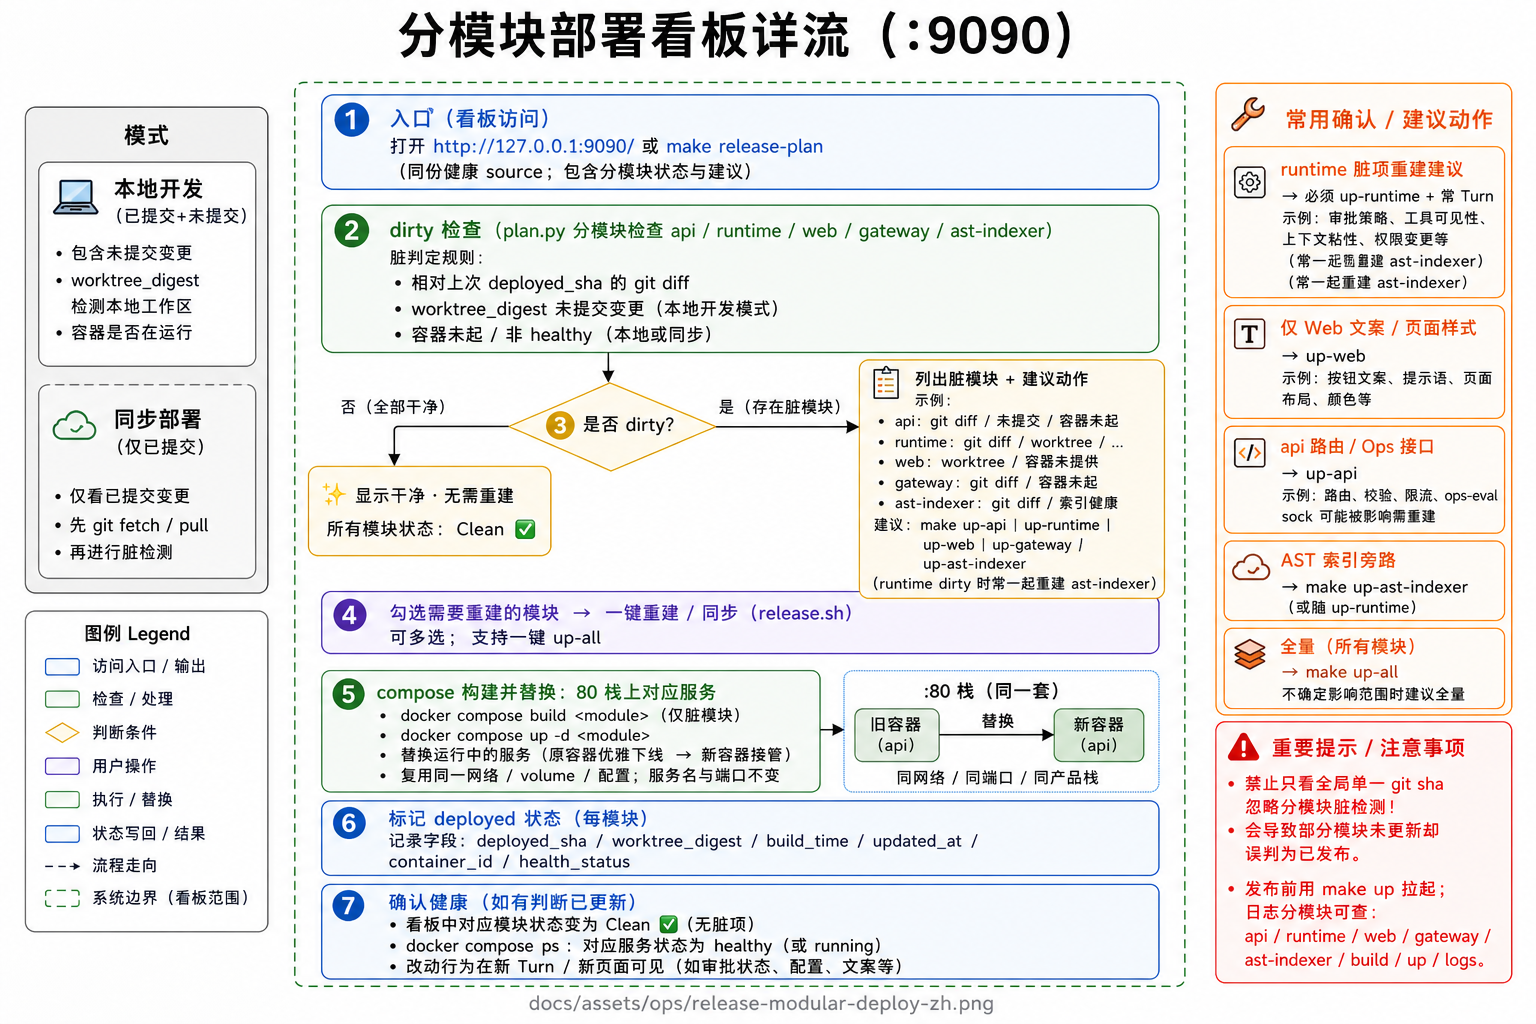
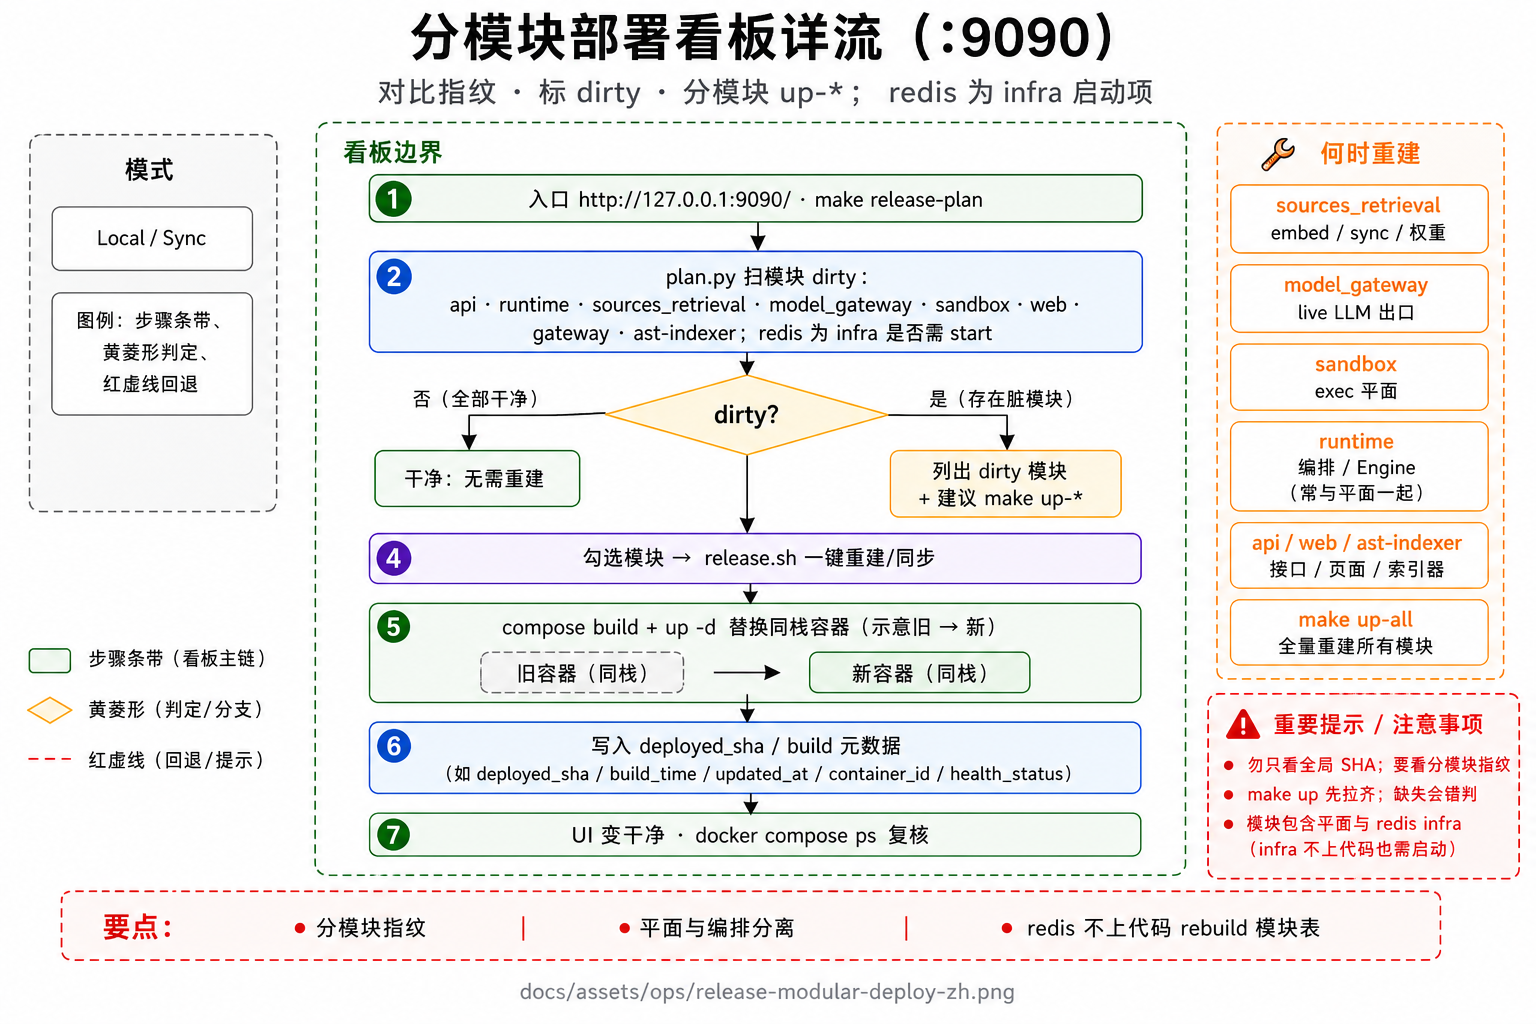
Document ADR-020 planes in the tour and redraw the stale flow posters.
Tour topology, backend, index, sandbox, and contracts now match remote embed ownership and HTTP hot paths.

Changed region(s): [[0.0, 0.0, 1.0, 1.0]]

diff --git a/docs/tour/pages/backend.html b/docs/tour/pages/backend.html
@@ -189,8 +189,8 @@ t3  订阅（SSE 面，长连接）——通常与 t1 的 202 之后立刻发起
       大量挂起的 SSE 先挤 api 的 fd / 协程 / 1g。
 
 t4  模型增量（高频）
-    Provider ──HTTP 流──► runtime ModelGateway
-         │
+    Provider ──HTTP NDJSON──► model-gateway ──► runtime ModelGateway（remote）
+         │  stub/recorded 仍在编排本地，不经 gateway
          ▼
     BufferedEventWriter  首 token 立即 INSERT；其后 ≤40ms 多行 INSERT
          │  payload.delta 单条 ≤8192 字符（契约）
@@ -217,7 +217,8 @@ t5  控制命令（与 SSE 并行的短 POST）
     api      鉴权 + _require_turn_access
              INSERT run_commands + NOTIFY run_commands_channel
     runtime  仅 runner_id 匹配且持有 lease 的副本消费
-             续跑同一 run_id（仍占 inflight）</pre>
+             续跑同一 run_id（仍占 inflight）
+<span class="pt">◆ 要点  live 上游经 model-gateway；query embed 经 sources-retrieval HTTP；首 token / query embed 禁止上 Redis 总线。</span></pre>
 
           <h3>Caddy</h3>
           <pre class="seq">Caddy  L7 reverse proxy     SSE 对它 = 很久不结束的 GET /api/…
@@ -256,12 +257,15 @@ X-Internal-Token 只用于 api↔runtime 的 push 回退 / admin 代理。
 │            禁止 --workers=N：每个 worker 复制一份互不相认的               │
 │            inflight 计数与 LISTEN 套接字，闸会失效。                      │
 │            扩容 = 加容器副本，claim 仍走数据库 CAS。                      │
-│  cgroup    runtime 4g (GPU→12g)  api 1g     postgres 1g  ast 768m        │
+│  cgroup    runtime 4g（编排）  sources-retrieval 12g(GPU)/4g(CPU)        │
+│            model-gateway 512m  sandbox 1g  api 1g  postgres 1g  ast 768m │
 │  DB 池     api hot5 + bypass5               runtime hot5 + bypass5       │
 │            + LISTEN 专用连接 2～3 根/进程   PG 默认 max_connections≈100   │
 │  实际并发  min(16, 热池排队, RSS, 供应商限流) 推荐 2～4 路满窗 Turn       │
+│  embed     权重只在 sources-retrieval；编排 EMBEDDING_BACKEND=remote     │
 └──────────────────────────────────────────────────────────────────────────┘
 <span class="pt">◆ 要点  先撞上的是热池 5，不是 inflight 16。--workers 会复制互不相认的闸。</span>
+<span class="pt">◆ 要点  HA 扩 runtime 不复制 bge-m3；GPU overlay 挂在 sources-retrieval。</span>
 
 连接分类
 ────────
@@ -271,11 +275,14 @@ X-Internal-Token 只用于 api↔runtime 的 push 回退 / admin 代理。
 长连接  ① Browser↔Caddy↔api   SSE (chunked GET，Turn 生命周期)
         ② api↔PG              LISTEN turn_events_channel（进程级，1 根）
         ③ runtime↔PG          LISTEN dispatch + LISTEN run_commands
-        ④ runtime↔Provider    模型 HTTP 流（step 级，可 abort）
-        ⑤ runtime 心跳        10s 续 lease（短 SQL，逻辑上是长租约）
+        ④ runtime↔model-gateway↔Provider   模型 HTTP NDJSON（step 级，可 abort）
+        ⑤ runtime↔sources-retrieval        query/index embed（HTTP；不上总线）
+        ⑥ runtime↔sandbox                 exec（HTTP；可回退本进程）
+        ⑦ runtime 心跳        10s 续 lease（短 SQL，逻辑上是长租约）
 
         ① 与 ④ 数量随「正在看 / 正在推理」涨
         ②③ 是固定的控制面插座，与用户数无关
+        ⑤⑥ 是执行平面热路径；异步索引走 Redis Streams，不走这里
 
 叠回时序
 ────────
@@ -376,11 +383,11 @@ RAG     psycopg 自建连，第三条绕开 hot 的路径</pre>
 
   内存数量级（Python 对象图；仓库无 per-Turn RSS 探针，只作规划）
     满 usable≈98k tok → 典型 5～30 MiB / Turn（对象头 + 多份拷贝）
-    16 inflight × 20 MiB ≈ 0.3 GiB   仅消息图
-    + sentence-transformers 常驻
+    16 inflight × 20 MiB ≈ 0.3 GiB   仅消息图（编排 runtime）
+    + sentence-transformers 常驻于 sources-retrieval（不在编排进程）
         gte-small@384     ~0.1 GiB
-        bge-m3@1024       ~1.5–2.5 GiB（故 GPU overlay 把 runtime 抬到 12g）
-    ⇒ 4g cgroup 下 16 路满窗会先 OOM。
+        bge-m3@1024       ~1.5–2.5 GiB（故 GPU overlay 把 sources-retrieval 抬到 12g）
+    ⇒ 编排 4g 下 16 路满窗仍可能先撞热池/供应商限流；权重 OOM 面在 retrieval。
 <span class="pt">◆ 要点  128k 是这一 Turn 的组窗，不是 Session 常驻。软件帽 16 ≠ 物理可跑 16。</span></pre>
 
           <h3>规划上界</h3>
@@ -391,17 +398,18 @@ RAG     psycopg 自建连，第三条绕开 hot 的路径</pre>
   维度            默认单副本     备注
   软件执行中      16             RUNTIME_MAX_INFLIGHT_TURNS
   DB 热连接       runtime 5 + api 5    先于 16 饱和
-  满窗推理        2～4           4g + 组窗拷贝 + embed
+  满窗推理        2～4           编排 4g + 组窗拷贝；embed 在 retrieval
   轻量对话        6～8           窗远小于 98k
   SSE 挂看        数十           api 1g / fd；≠ 能推理 16
   未领取排队      32 / 用户 2    再高 429
-  HA 双 runtime   软件 32        近双份 4g；PG 连接再 +12
+  HA 双 runtime   软件 32        近双份 4g；不复制 bge-m3；PG 连接再 +12
 
 扩容
 ────
   make up-ha → runtime-a / runtime-b，共用同一 Postgres 与 agent_data
   claim 走数据库 CAS，不配置 RUNTIME_URL_MAP
   单进程 uvicorn，勿设 --workers（会复制互不相认的 inflight / LISTEN）
+  GPU / bge-m3 挂在 sources-retrieval（及 bench），不随 runtime 副本翻倍
   dispatch_wait_seconds / dispatch_queue_depth 顶满再加 runtime
   event_pipeline_lag_seconds / TTFB 变差先查热池与事件批窗（~40ms）
 
@@ -414,8 +422,8 @@ RAG     psycopg 自建连，第三条绕开 hot 的路径</pre>
   加密停在边界：:80 明文，:443 tls internal
   容器内 PG/HTTP 默认无 sslmode=require
   Cookie = HMAC 签名（完整性，payload 非加密）；供应商 Key 静态 Fernet</pre>
-          <p class="figure-lead">下图中间箭头链即 POST → 准入 → 落库 NOTIFY → claim/lease → 事件 → SSE。左右为 Caddy / 双池 / 禁止项，不是第二套主链。菱形为未领取队列与 inflight。数字与 ASCII 一致：lease 180s、热池 5×5s、202 ≠ <code>turn.accepted</code>。</p>
-          <div class="src"><code>deploy/caddy/Caddyfile</code> · <code>admission.py</code> · <code>turn_dispatch.py</code> · <code>db/pool.py</code></div>
+          <p class="figure-lead">下图中间箭头链即 POST → 准入 → 落库 NOTIFY → claim/lease → Engine（经 model-gateway / sources-retrieval / sandbox HTTP）→ 事件 → SSE。左右为 Caddy / 双池 / 禁止项，不是第二套主链。菱形为未领取队列与 inflight。数字与 ASCII 一致：lease 180s、热池 5×5s、202 ≠ <code>turn.accepted</code>。</p>
+          <div class="src"><code>deploy/caddy/Caddyfile</code> · <code>deploy/compose/planes.yml</code> · <code>admission.py</code> · <code>turn_dispatch.py</code> · <code>db/pool.py</code></div>
         </div>
         <figure class="figure">
           <div class="diagram-body diagram-svg">

diff --git a/docs/tour/pages/sandbox.html b/docs/tour/pages/sandbox.html
@@ -1,13 +1,16 @@
 <section class="page" data-id="sandbox" data-group="场景与工具" data-title="exec 沙箱">
         <div class="card">
           <h2>exec 沙箱与评测解题改道</h2>
-          <p class="lede">审批门通过之后，仍须决定进程可触达的范围。威胁模型是保护<strong>宿主机与 agent 服务</strong>：子进程文件系统只对当前 Work 根 RW。日常出站网络默认可用（已审批的 <code>curl https://…</code> 不应被沙箱误杀）；产品层「禁 curl」是另一条规则，不要焊进内核隔离。</p>
+          <p class="lede">审批门通过之后，仍须决定进程可触达的范围。威胁模型是保护<strong>宿主机与 agent 服务</strong>：子进程文件系统只对当前 Work 根 RW。默认经 <code>SANDBOX_PLANE_URL</code> 调 sandbox 平面 <code>POST /internal/sandbox/exec</code>（HTTP 热路径，不上 Redis 总线）；平面内再选 Landlock / bwrap / off。日常出站网络默认可用（已审批的 <code>curl https://…</code> 不应被沙箱误杀）；产品层「禁 curl」是另一条规则，不要焊进内核隔离。</p>
           <ul class="seq-legend">
             <li><span class="pt">◆ 要点</span> 设计取舍：漏了会把工作区绿当官方分、或缺 bwrap 时把「断网」降级成宿主机外连</li>
           </ul>
 
-          <h3>日常沙箱（进程内首次探测后 sticky）</h3>
-          <pre class="seq">选择顺序  Landlock → bwrap → off
+          <h3>日常沙箱（平面内首次探测后 sticky）</h3>
+          <pre class="seq">编排 runtime ──HTTP──► sandbox 平面（SANDBOX_PLANE_URL）
+  未配置平面 URL 时回退进程内 sandbox（兼容 monolith / 测试）
+
+平面内选择顺序  Landlock → bwrap → off
   Landlock  Linux ≥5.13，ABI≥1；restrict_self 不可逆，探针在子进程做
             可写 jail = 当前 work_root（与 bwrap RW 面一致）；私有 tmpdir
             <strong>撤不掉 egress</strong>——只锁 FS
@@ -15,7 +18,8 @@
   off       裸 shell；argv 仍先过路径软 jail（不得越出 Work 根）
   TOOL_SANDBOX=off|landlock|bwrap  破窗覆盖；off 每次调用都生效，自动探测结果 pin 在进程生命周期
   结果 dict 带 sandbox 后端标识，便于 Ops 判断「这步到底关在哪一层」
-<span class="pt">◆ 要点  Landlock 单独不能满足评测断网。deny_network 时必须 bwrap --unshare-net；没有 bwrap 就硬失败，禁止降级到 off。</span></pre>
+<span class="pt">◆ 要点  Landlock 单独不能满足评测断网。deny_network 时必须 bwrap --unshare-net；没有 bwrap 就硬失败，禁止降级到 off。</span>
+<span class="pt">◆ 要点  热路径是 HTTP；Redis Streams 只承载异步索引等，不承载 exec。</span></pre>
 
           <h3>菱形：是否官方编码评测题</h3>
           <pre class="seq">条件：Turn 带 ops_eval 标记 且 工作区存在实例标记文件
@@ -32,7 +36,7 @@
       仍不得越出当前 Work 根
       与审批门正交：未批准的 run_command 根本不会进 sandbox</pre>
           <p class="figure-lead">下图菱形「是否评测题」对应主链第 2 步；否分支才是日常沙箱。</p>
-          <div class="src"><code>tools/core/sandbox.py</code> · <code>tools/core/landlock_fs.py</code> · <code>structural/test_run_redirect.py</code> · <code>tools/core/swe_solve_env.py</code></div>
+          <div class="src"><code>services/sandbox</code> · <code>tools/core/remote_sandbox.py</code> · <code>tools/core/sandbox.py</code> · <code>tools/core/landlock_fs.py</code> · <code>structural/test_run_redirect.py</code></div>
         </div>
         <figure class="figure">
           <div class="diagram-body diagram-svg">

diff --git a/docs/tour/pages/index.html b/docs/tour/pages/index.html
@@ -1,7 +1,7 @@
 <section class="page" data-id="index" data-group="RAG / 写作" data-title="索引面">
         <div class="card">
           <h2>索引面：Turn 外建库</h2>
-          <p class="lede">目录文件是真相；向量库是投影。建库可慢：启动延迟同步、目录变更、上传、工作台「同步资料库」、内部同步命令、写作 <code>post_turn_jobs: sources.index_sync</code>。提问热路径禁止当场建库或整库重嵌（R1/R3）。无资料目录则 <code>retrieval=none</code>，不当成空库去 sync。private 禁止空 work_id。</p>
+          <p class="lede">目录文件是真相；向量库是投影。建库可慢：<code>sources-retrieval</code> 启动延迟同步、目录变更、上传、工作台「同步资料库」、内部同步命令、写作 <code>post_turn_jobs: sources.index_sync</code>（经 Redis 总线异步）。编排 runtime 默认 <code>EMBEDDING_BACKEND=remote</code>，不在本进程常驻 ST。提问热路径禁止当场建库或整库重嵌（R1/R3）。无资料目录则 <code>retrieval=none</code>，不当成空库去 sync。private 禁止空 work_id。</p>
           <ul class="seq-legend">
             <li><span class="pt">◆ 要点</span> 设计取舍：漏了会在查询路径上 embed 整库、把进度条当成检索就绪、或让长 sync 饿死 query embed</li>
           </ul>
@@ -22,13 +22,14 @@ embed=False 只挂 embed_input，本文件不碰 GPU
 宽表过长拆成指针，全文仍在磁盘，用 read_file 再读</pre>
 
           <h3>embed 与写入</h3>
-          <pre class="seq">产品 CPU   gte-small@384（INDEX≈9）        ~0.1 GiB 常驻
-产品 GPU   bge-m3@1024、max_seq=512（INDEX 13）  ~1.5–2.5 GiB（runtime cgroup 抬到 12g）
+          <pre class="seq">产品 CPU   gte-small@384（INDEX≈9）        ~0.1 GiB 常驻于 sources-retrieval
+产品 GPU   bge-m3@1024、max_seq=512（INDEX 13）  ~1.5–2.5 GiB（GPU overlay 把 sources-retrieval 抬到 12g）
 CI/lite    Hash 词面哈希，不承担召回质量
 正文给人看，面包屑（path:/tags:）给模型；embedding_text_include_metadata 默认关
 短窗仍输出满维向量
+<span class="pt">◆ 要点  产品权重只在 sources-retrieval；编排 runtime / HA 副本不复制 ST。</span>
 
-同一 flush 写三表（BYPASS 池 / indexer 进程，不占 runtime 热池）
+同一 flush 写三表（sources-retrieval 进程；不占编排 runtime 热池）
   source_files
   source_chunks   text + embedding；bm25_extra 拷到切块供 FTS C 权
   source_docs     切块向量均值（centroid），不是再 embed 摘要
@@ -41,7 +42,7 @@ GIN 在 schema 初始化时建，不每次 flush 重建
 backend 默认 pgvector；retrieval_mode=hybrid
 <span class="pt">◆ 要点  HNSW 不是 Python 建图 API，是 pgvector 的 CREATE INDEX / 增量维护。query 路径上当场建库会打爆 R1。</span></pre>
           <p class="figure-lead">下图中主链：触发 → 切块 → embed → 写入索引；左右为旁路与禁止项。</p>
-          <div class="src"><code>retrieval/chunk_split.py</code> · <code>embedder.py</code> · <code>pgvector_store.py</code> · <code>sync_cli.py</code></div>
+          <div class="src"><code>services/sources-retrieval</code> · <code>retrieval/chunk_split.py</code> · <code>embedder.py</code> · <code>remote_embedder.py</code> · <code>sync_cli.py</code></div>
         </div>
                                         <figure class="figure">
           <div class="diagram-body diagram-svg">

diff --git a/docs/tour/pages/rag-deep-dive.html b/docs/tour/pages/rag-deep-dive.html
@@ -6,13 +6,13 @@
       >
         <div class="card">
           <h2>RAG 深描：主链 + 打开函数</h2>
-          <p class="lede">本页两层、同一套编号。上层 ASCII 与全书相同：闸、数字、误用模型。下层按编号打开函数（<code>code-py</code>），不是第二套主链。车道超时 / RRF / doc_boost 见上一页「hybrid 召回」。查询热路径不 <code>sync</code>、不建图。</p>
+          <p class="lede">本页两层、同一套编号。上层 ASCII 与全书相同：闸、数字、误用模型。下层按编号打开函数（<code>code-py</code>），不是第二套主链。索引面 sync/embed 跑在 <code>sources-retrieval</code>（唯一权重池）；Turn 内 query embed 经编排 remote HTTP。车道超时 / RRF / doc_boost 见上一页「hybrid 召回」。查询热路径不 <code>sync</code>、不建图。</p>
           <ul class="seq-legend">
             <li><span class="pt">◆ 要点</span> 设计取舍：漏了会在查询路径上 sync、把 HNSW 当成 Python 建图 API、或用 raw 分相加代替 RRF</li>
           </ul>
 
           <h3>主链（与图 1–15 同一编号）</h3>
-          <pre class="seq">Turn 外 · 索引面（目录文件是真相；向量库是投影）
+          <pre class="seq">Turn 外 · 索引面（目录文件是真相；向量库是投影；进程 = sources-retrieval）
   1  stamp / mtime 判定 dirty 或 force_reindex（可恢复 epoch）
   2  force 且确有 dirty → DROP 两张 HNSW；增量不 drop，图随 UPSERT 走
   3  每文件 chunk_source_text(embed=False)：450 tok / 64 overlap，只挂 embed_input
@@ -20,6 +20,7 @@
   6  同 flush：DELETE 旧切块 + UPSERT files/chunks/docs（centroid = 切块均值）
   7–8  GIN 随列维护；全部写完才 CREATE HNSW（m=16 / ef_construction=64）并写 stamp
   <span class="pt">◆ 要点  HNSW 是 pgvector CREATE INDEX，不是 Python 建图。进度条 ≠ 检索就绪。</span>
+  <span class="pt">◆ 要点  ST/hash 权重只在 sources-retrieval；编排 runtime 默认 remote，不常驻模型。</span>
 
 Turn 内 · 查询面（模型 tool_use 才进；禁止再 sync）
   9   search_sources(query, limit, path_prefix)；无 sources/ → retrieval=none

diff --git a/docs/tour/pages/contracts.html b/docs/tour/pages/contracts.html
@@ -39,14 +39,19 @@
   POST …/approve-tool-call|deny|cancel → run_commands，达持约副本</pre>
 
           <h3>组件地图</h3>
-          <pre class="seq">services/api          鉴权 · 准入 · 落库 · LISTEN · SSE · 投影
-services/runtime      claim · Engine · 工具 · 写事件（:8001 不公网）
+          <pre class="seq">services/api          鉴权 · 准入 · 落库 · LISTEN · SSE · 投影 · 总线 enqueue
+services/runtime      orchestrator：claim · Engine · 工具调度 · 写事件（:8001 不公网）
+services/sources-retrieval  唯一 embedding 池 · sync/watch · POST /internal/embed
+services/model-gateway      live LLM NDJSON · POST /internal/v1/complete
+services/sandbox            bwrap/landlock · POST /internal/sandbox/exec
+redis                 agent.jobs Streams（异步；首 token / query embed 禁止上总线）
 services/web          工作台；只消费 SSE 与 GET /view
 services/bench        官方评测 worker；隔离库
-services/release-console  发布台 :9090；对比指纹、标 dirty
+services/release-console  发布台 :9090；对比指纹、标 dirty（含平面模块）
 packages/contracts    机器源
 eval/                 golden / official / retrieval / swebench
-deploy/ · scripts/ · seed/ · workspace/</pre>
-          <div class="src"><code>packages/contracts/schemas/events/envelope.json</code> · <code>openapi/public.yaml</code></div>
+deploy/ · scripts/ · seed/ · workspace/
+ADR                   docs/adr/020-execution-plane-microservices.md · 020-job-bus.md</pre>
+          <div class="src"><code>packages/contracts/schemas/events/envelope.json</code> · <code>openapi/public.yaml</code> · <code>deploy/compose/planes.yml</code></div>
         </div>
       </section>

diff --git a/docs/tour/index.html b/docs/tour/index.html
@@ -1049,7 +1049,7 @@
       const blurbs = {
         cover: "边界、权威与读法",
         principles: "R1–R5 热路径验收",
-        topology: "Caddy · api · runtime",
+        topology: "Caddy · api · runtime · planes",
         backend: "pull 时序 · 三道闸 · 双池",
         domain: "Work / Session / Turn / Run",
         "request-path": "受理 → 领取 → 投影",

diff --git a/docs/adr/020-execution-plane-microservices.md b/docs/adr/020-execution-plane-microservices.md
@@ -1,0 +1,54 @@
+# ADR-020: Execution-plane microservices + job bus
+
+## Status
+
+Accepted (implementation in progress).
+
+## Context
+
+Runtime was a fat execution monolith: Turn orchestration, embedding weights,
+sources sync, model egress, and sandbox shared one process. That couples
+memory (gte-small / bge-m3 × replicas), failure domains, and scale axes.
+Control plane (API + PG CAS + NOTIFY) is already separate.
+
+## Decision
+
+Deploy the execution plane as microservices with a Redis Streams job bus:
+
+| Service | Owns | Does not own |
+|---------|------|----------------|
+| **api** | Admission, CAS, SSE, outbox → bus | Embed weights, sandbox CPU |
+| **runtime** (orchestrator) | Claim, Engine, tools schedule, writing | ST weights, startup sync, heavy sandbox |
+| **sources-retrieval** | Single embedding pool, sync/watch, query embed | Turns |
+| **model-gateway** | Upstream LLM stream, timeouts, egress | Tools / embed |
+| **sandbox** | bwrap/landlock command execution | Model / embed |
+| **ast-indexer** | AST jobs (existing) | — |
+
+**Sync path (rate red line):** orchestrator → HTTP → retrieval embed / model-gateway.
+Never put first-token or query-embed on the bus.
+
+**Async path:** Redis Streams (`agent.jobs`) for `sources.index_sync`, sandbox
+jobs, and turn wake hints. PostgreSQL remains business truth (runs, events, CAS).
+See [020-job-bus.md](./020-job-bus.md).
+
+**Memory:** embedding weights load only in `sources-retrieval` (one pool).
+Orchestrator uses `EMBEDDING_BACKEND=remote`.
+
+**Companion surfaces (required):**
+- Compose: `deploy/compose/planes.yml` (default via Makefile `COMPOSE`)
+- Release console / `paths.env` / `plan.py`: modules `sources_retrieval`,
+  `model_gateway`, `sandbox`; embedding actions → `up-sources-retrieval`
+- Ops overview expected containers + plane status; eval recreate includes
+  `sources-retrieval` + `planes.yml`
+- Service images: `services/{sources-retrieval,model-gateway,sandbox}/Dockerfile`
+  (retrieval ← `runtime:default` ST bake; gateway/sandbox ← `runtime:slim` hash Dockerfile)
+- Live cutover: orchestrator → remote embed / model-gateway NDJSON /
+  sandbox HTTP exec (stub/recorded/monolith stay local)
+
+## Consequences
+
+- Compose topology and `SERVICE_ROLE` / URLs are the source of truth for scale-out.
+- GPU overlay attaches to `sources-retrieval` (and bench), not orchestrator replicas.
+- HA scales orchestrator without copying bge-m3.
+- Physical package extract (separate Python projects) can follow; identity +
+  deploy modules are already split.

diff --git a/docs/adr/020-job-bus.md b/docs/adr/020-job-bus.md
@@ -1,0 +1,35 @@
+# Platform job bus (ADR-020)
+
+## Transport
+
+- **Redis Streams** stream name: `agent.jobs`
+- Compose service: `redis` → `agent-redis`
+- Env: `REDIS_URL=redis://redis:6379/0`
+
+## Message fields
+
+| Field | Meaning |
+|-------|---------|
+| `id` | Job UUID |
+| `type` | e.g. `sources.index_sync` |
+| `payload` | JSON object string |
+| `ts` | Unix epoch seconds |
+
+## Consumer groups
+
+| Group | Service | Types |
+|-------|---------|--------|
+| `sources-retrieval` | `agent-sources-retrieval` | `sources.index_sync` |
+| `sandbox` | `agent-sandbox` | (reserved) |
+| `runtime` | orchestrator | (reserved; turn wake) |
+
+## Rules
+
+- **Sync hot path** (first token, query embed): HTTP RPC only — never this bus.
+- **PG** remains business truth (runs, events, CAS). Streams are delivery only.
+- Maxlen approximate trim: 100_000 entries.
+
+## Schema note
+
+No Alembic migration: the bus is Redis-native. Product/Ops vector tables stay
+in Postgres (`source_index_meta`, pgvector) unchanged by the plane split.
